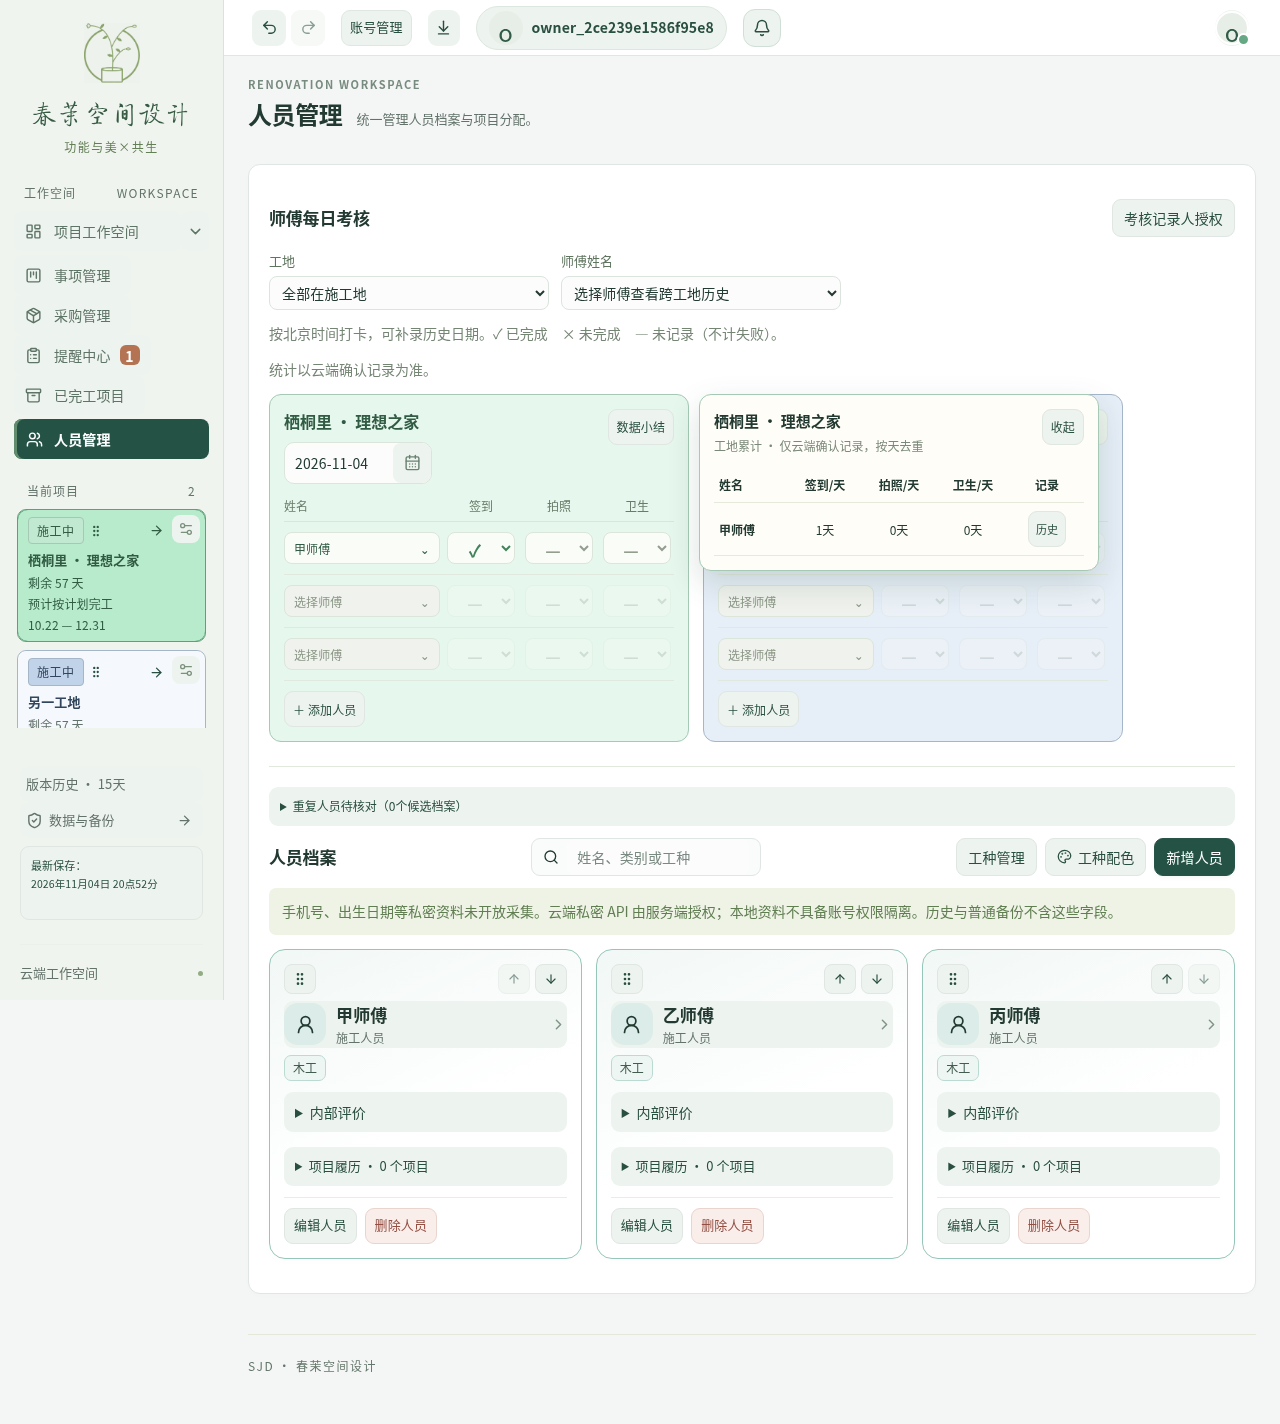
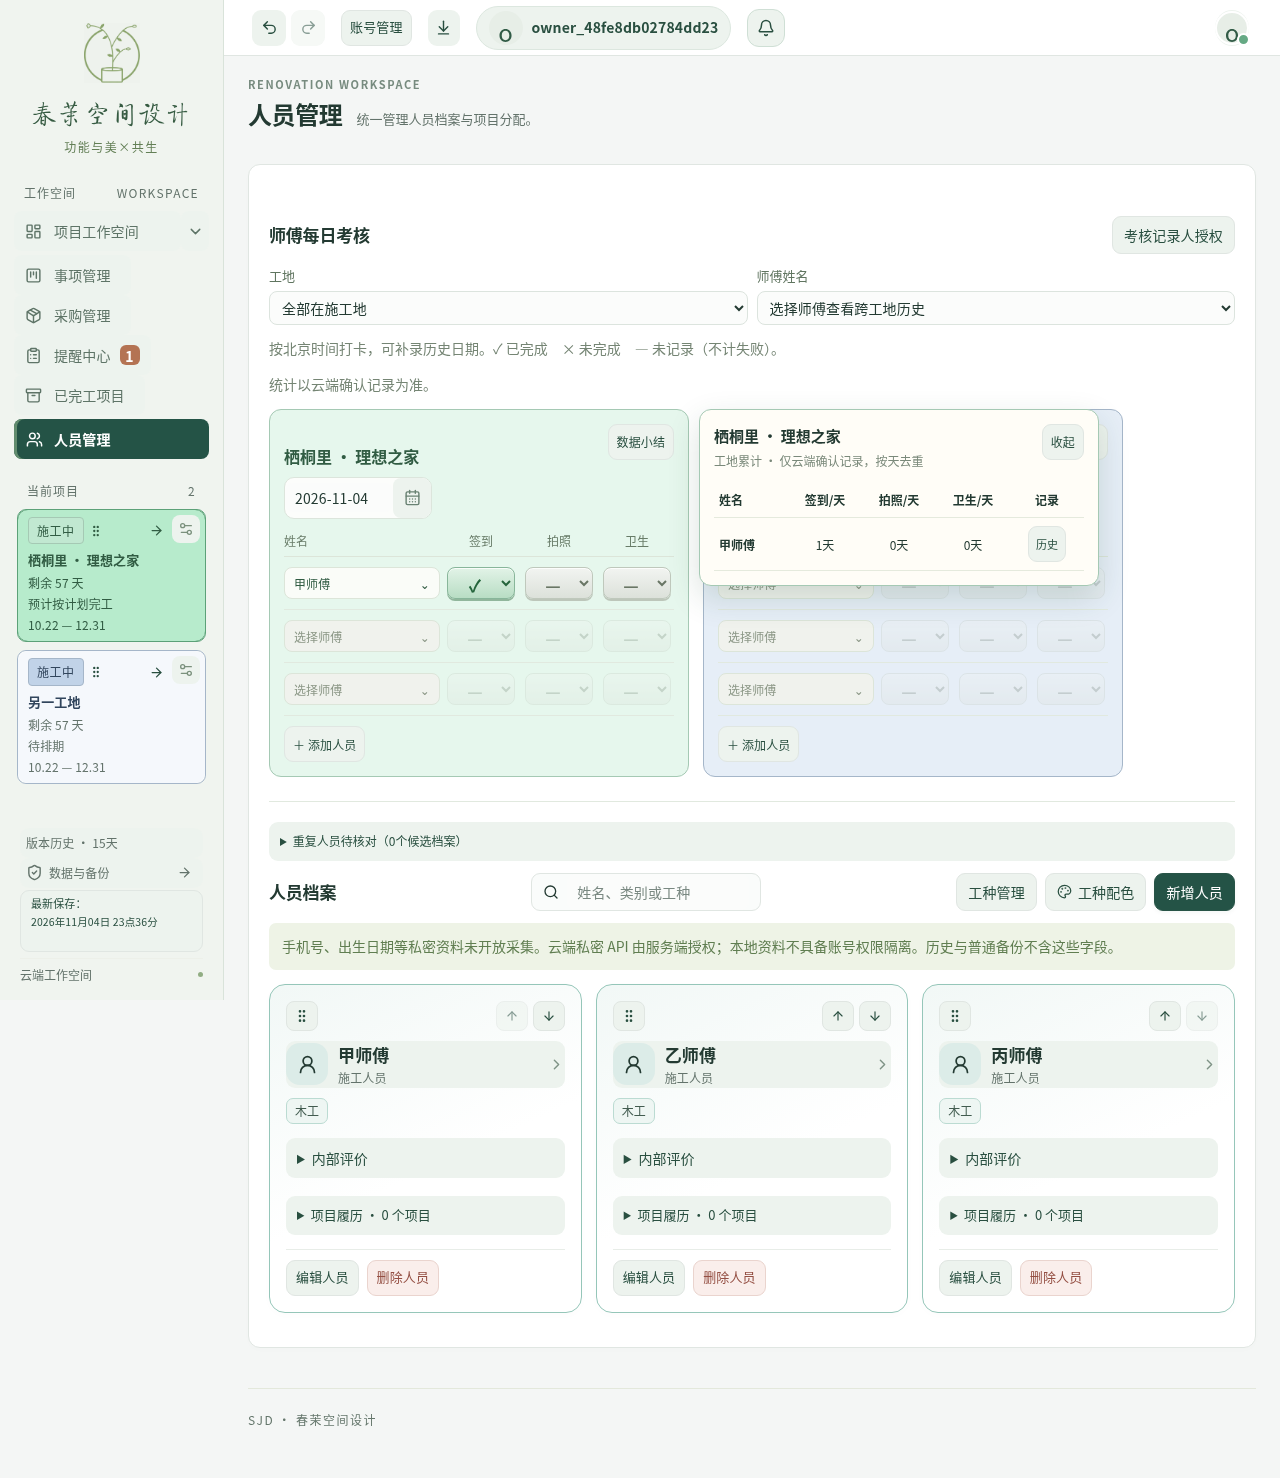
fix: stabilize personnel entry and compact sidebar with shaded check-ins

diff --git a/cloud-tests/quiet-assessments.spec.ts b/cloud-tests/quiet-assessments.spec.ts
@@ -245,3 +245,41 @@ test('after another tab changes a person, replacing the visible row uses that ac
     )
     .toEqual(['quiet-0', 'quiet-1']);
 });
+
+test('personnel entry reserves its final layout while permission loads and keeps footer compact', async ({
+  page,
+}) => {
+  await page.setViewportSize({ width: 1440, height: 1000 });
+  let release = () => {};
+  const gate = new Promise<void>((r) => {
+    release = r;
+  });
+  await page.route('**/api/assessments/access', async (route) => {
+    await gate;
+    await route.continue();
+  });
+  const entering = enter(page);
+  try {
+    await expect(page.locator('.assessment-loading')).toBeAttached();
+    const before = await page.locator('.personnel-directory').boundingBox();
+    await expect(page.locator('.daily-assessment')).toHaveAttribute('inert', '');
+    release();
+    await entering;
+    await expect(page.locator('.daily-assessment')).toHaveAttribute('aria-busy', 'false');
+    expect((await page.locator('.personnel-directory').boundingBox())!.y).toBe(before!.y);
+    const footer = await page.locator('.sidebar-bottom').boundingBox();
+    expect(footer!.height).toBeLessThan(170);
+    await choose(page, 0, 'quiet-0');
+    const check = card(page).getByRole('combobox', { name: '甲师傅签到', exact: true });
+    for (const state of ['yes', 'no', 'pending']) {
+      await check.selectOption(state);
+      expect(await check.evaluate((el) => getComputedStyle(el).backgroundImage)).toContain(
+        'linear-gradient',
+      );
+      expect(await check.evaluate((el) => getComputedStyle(el).boxShadow)).not.toBe('none');
+    }
+  } finally {
+    release();
+    await entering;
+  }
+});

diff --git a/src/components/AssessmentPanel.tsx b/src/components/AssessmentPanel.tsx
@@ -573,14 +573,8 @@ export function AssessmentPanel({ data, isCloud }: { data: Data; isCloud: boolea
         </p>
       </section>
     );
-  if (!access || verifiedScope !== ownerKey)
-    return (
-      <section className="assessment-panel">
-        <h2>师傅每日考核</h2>
-        <p role="status">{error || '正在检查考核权限…'}</p>
-      </section>
-    );
-  if (!access.allowed)
+  const checking = !access || verifiedScope !== ownerKey;
+  if (!checking && !access?.allowed)
     return (
       <section className="assessment-panel">
         <h2>师傅每日考核</h2>
@@ -588,12 +582,18 @@ export function AssessmentPanel({ data, isCloud }: { data: Data; isCloud: boolea
       </section>
     );
   return (
-    <section className="assessment-panel daily-assessment" aria-label="师傅每日考核">
+    <section
+      className={`assessment-panel daily-assessment${checking ? ' assessment-loading' : ''}`}
+      aria-label="师傅每日考核"
+      aria-busy={checking}
+      inert={checking}
+      data-loading-message={error || '正在读取考核记录…'}
+    >
       <div className="section-heading">
         <h2>师傅每日考核</h2>
         <div className="toolbar">
           <AssessmentGrants
-            access={access}
+            access={access ?? { allowed: false, owner: false }}
             onChanged={() => {
               void load();
             }}

diff --git a/src/components/assessments.css b/src/components/assessments.css
@@ -595,3 +595,48 @@ button.assessment-person-name {
 .assessment-summary table {
   table-layout: fixed;
 }
+
+/* Reserve the final card layout while access and records load; no shimmer. */
+.assessment-loading {
+  position: relative;
+  visibility: hidden;
+}
+.assessment-loading::before {
+  content: attr(data-loading-message);
+  visibility: visible;
+  position: absolute;
+  top: 0;
+  left: 0;
+  color: #758574;
+  font-size: 13px;
+}
+.daily-assessment > .section-heading {
+  min-height: 40px;
+}
+.assessment-status-select.status-yes {
+  background: linear-gradient(#e2f3e7, #b8ddc4);
+  border-color: #88b69a;
+  color: #25653c;
+  box-shadow:
+    inset 0 1px 0 #ffffffc9,
+    0 2px 0 #91b69c;
+}
+.assessment-status-select.status-no {
+  background: linear-gradient(#fbe9e6, #edc4bd);
+  border-color: #d1a099;
+  color: #9b4037;
+  box-shadow:
+    inset 0 1px 0 #ffffffc9,
+    0 2px 0 #c9a29b;
+}
+.assessment-status-select.status-pending {
+  background: linear-gradient(#f2f4f1, #dce1da);
+  border-color: #bfc8bc;
+  color: #697665;
+  box-shadow:
+    inset 0 1px 0 #ffffffc9,
+    0 2px 0 #bdc6ba;
+}
+.assessment-status-select:disabled {
+  box-shadow: none;
+}

diff --git a/src/buttons.css b/src/buttons.css
@@ -242,14 +242,28 @@ button[aria-busy='true'] {
   padding: 5px 8px;
   margin-top: 6px;
 }
-/* Reserve the same sidebar footprint during upload, confirmation and errors. */
+/* Compact footer retains a fixed footprint throughout saves. */
+.app-shell .sidebar-bottom {
+  padding-top: 6px;
+}
+.app-shell .sidebar-bottom > button {
+  min-height: 30px;
+  padding-block: 4px;
+  font-size: 12px;
+}
+.app-shell .sidebar-bottom > p {
+  margin-block: 4px 0;
+  padding-top: 6px;
+  font-size: 12px;
+}
+
 .sidebar-save-status {
-  min-height: 90px;
-  padding: 8px 0;
+  min-height: 66px;
+  padding: 2px 0;
 }
 .sidebar-save-status > button {
-  height: 74px;
-  min-height: 74px;
+  height: 62px;
+  min-height: 62px;
   display: flex;
   flex-direction: column;
   align-items: flex-start;

diff --git a/src/App.tsx b/src/App.tsx
@@ -1,3 +1,4 @@
+import { PeoplePanel } from './components/PeoplePanel';
 import { UndoControls } from './components/UndoControls';
 import { businessUndo } from './lib/undo-manager';
 import { downloadLocalRecovery } from './components/SyncStatus';
@@ -119,9 +120,6 @@ const RecordBoard = lazy(() =>
 );
 const CloudControl = lazy(() =>
   import('./components/CloudControl').then((m) => ({ default: m.CloudControl })),
-);
-const PeoplePanel = lazy(() =>
-  import('./components/PeoplePanel').then((m) => ({ default: m.PeoplePanel })),
 );
 const LegacyMigrationPanel = lazy(() =>
   import('./components/LegacyMigrationPanel').then((m) => ({ default: m.LegacyMigrationPanel })),

diff --git a/docs/assessment-quiet-dropdowns.md b/docs/assessment-quiet-dropdowns.md
@@ -35,3 +35,11 @@
 
 - [1280px](screenshots/assessment-quiet/desktop-1280.png)
 - [1440px](screenshots/assessment-quiet/desktop-1440.png)
+
+## 后续调整：页面进入与侧栏空间
+
+人员模块改为直接加载，考核权限及记录加载期间使用不可操作、不可见的完整布局占位（无闪烁动画），避免先出现单行加载提示再将人员档案顶下去。权限依旧由原API检查，确认前无法操作打卡。三态下拉增加绿/红/灰渐变底色、描边和静态阴影；不增加位移动画。侧栏版本历史、备份、保存和云端工作空间的上下间距及高度统一压缩，正常保存与同步期间占用高度一致。
+
+新增浏览器验证会延迟权限响应，对比加载前后人员档案纵坐标，检查等待期间禁止操作、侧栏固定区高度小于170px，并验证三态下拉底色及阴影。
+
+本次验证：前端/API构建通过，182项单元测试通过，6项考核及5项静默交互浏览器场景通过（新增加载布局专项修正工具栏不足1像素高度差后复测通过）。未执行生产部署或生产数据操作。
